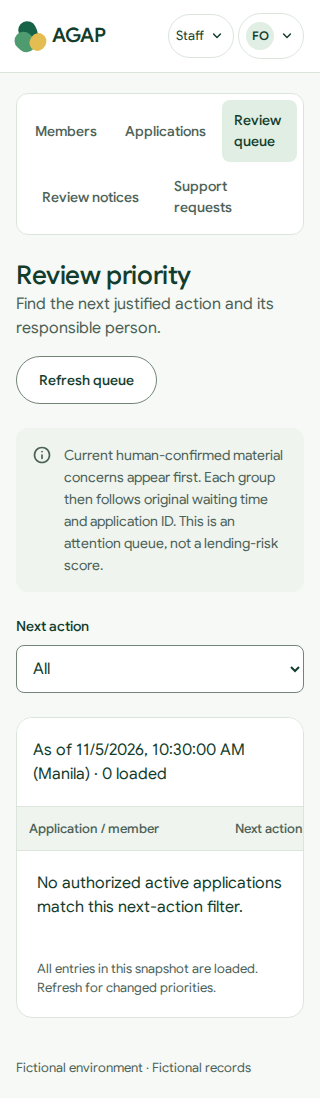
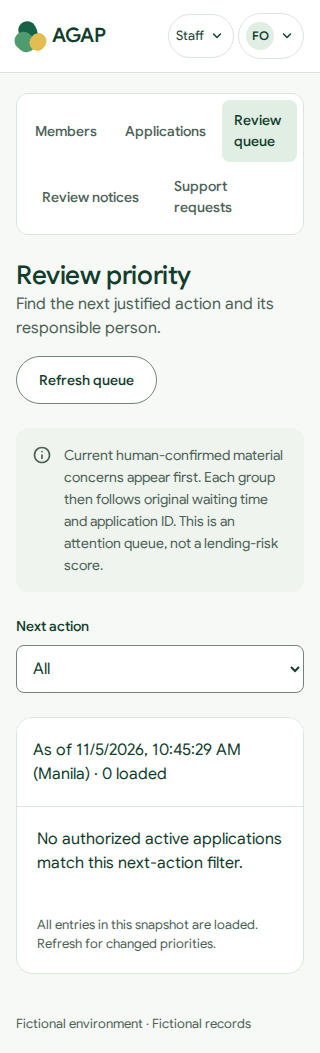
test(pilot): verify reconciliation help and credit-only deployment guards

diff --git a/apps/api/test/pilot-fixture.ts b/apps/api/test/pilot-fixture.ts
@@ -16,6 +16,7 @@ export async function createPilotFixture(){
 async function staff(role:ActorContext['roles'][number]){const actor:ActorContext={...f.officer.actor,userId:randomUUID(),sessionId:randomUUID(),roles:[role],authenticatedAt:new Date()},token=randomBytes(32).toString('base64url');await owner.query('INSERT INTO identity.staff_users(id,organization_id,issuer,subject,display_name,branch_ids,roles) VALUES($1,$2,$3,$1::uuid::text,$4,$5,$6)',[actor.userId,f.org,config.OIDC_ISSUER,`Fictional ${role}`,[f.branch],[role]]);await owner.query("INSERT INTO identity.sessions(id,token_hash,user_id,authenticated_at,methods,expires_at) VALUES($1,$2,$3,now(),ARRAY['mfa'],now()+interval '30 minutes')",[actor.sessionId,tokenHash(token),actor.userId]);return {actor,token};}
 const reviewer=await staff('reviewer'),cashier=await staff('cashier'),authorizer=await staff('financial_authorizer'),member=await memberFixture(f.officer.actor);const application=await new ApplicationsService(uow,new MembersService(uow,config.PRIVACY_NOTICE_VERSION)).create(f.officer.actor,{memberId:member.record.id,purpose:'Fictional connected principal pilot',requestedPrincipalCentavos:100000,requestedTermMonths:1,currency:'PHP'},randomUUID());
  const product=randomUUID(),policy=randomUUID(),cash=randomUUID(),principal=randomUUID(),releaseRule=randomUUID(),repayRule=randomUUID();const offerId=randomUUID();await owner.query("INSERT INTO accounting.accounts(id,organization_id,code,label,currency) VALUES($1,$2,'pilot-cash','Fictional cash','PHP'),($3,$2,'pilot-principal','Fictional receivable','PHP')",[cash,f.org,principal]);await owner.query("INSERT INTO accounting.posting_rules VALUES($1,$2,'disbursement','PHP','2026-01-01','2027-12-31'),($3,$2,'repayment','PHP','2026-01-01','2027-12-31')",[releaseRule,f.org,repayRule]);await owner.query("INSERT INTO accounting.rule_accounts VALUES($1,$2,$3,'debit'),($1,$2,$4,'credit'),($1,$5,$4,'debit'),($1,$5,$3,'credit')",[f.org,releaseRule,principal,cash,repayRule]);await owner.query("INSERT INTO accounting.periods VALUES($1,$2,'2026-11-01','2026-11-30','open')",[randomUUID(),f.org]);
+ for(const [kind,rule] of [['disbursement',releaseRule],['repayment',repayRule]])await owner.query("INSERT INTO accounting.reconciliation_mappings(id,organization_id,posting_rule_version_id,kind,currency,effective_from,effective_through,cash_account_id,principal_account_id,review_reference) VALUES($1,$2,$3,$4,'PHP','2026-01-01','2027-12-31',$5,$6,'Fictional connected principal integration mapping')",[randomUUID(),f.org,rule,kind,cash,principal]);
  await publishPilotConfiguration(owner,{format:'fictional-principal-pilot-v1',id:randomUUID(),organizationId:f.org,branchId:f.branch,label:'Fictional integration test only',sourcePolicy:{allowStatements:true,independentVerificationRequired:false},decisionAuthority:{status:'configured',versionId:randomUUID(),effectiveFrom:'2026-01-01',effectiveThrough:'2027-12-31',requiredApprovers:1,approvalValidity:{kind:'no_expiry'},grants:[{userId:reviewer.actor.userId,outcomes:['approve','decline','return'],approvalLimitCentavos:100000,exceptionPolicyIds:[]}]},financialAuthority:{status:'configured',versionId:randomUUID(),organizationId:f.org,branchId:f.branch,productVersionId:product,effectiveFrom:'2026-01-01',effectiveThrough:'2027-12-31',mfaMaxAgeSeconds:900,grants:[{userId:cashier.actor.userId,actions:['prepare','submit','observe'],methods:['cash'],maximumCentavos:100000},{userId:authorizer.actor.userId,actions:['authorize','submit','observe','reconcile'],methods:['cash'],maximumCentavos:100000}]},principalPolicy:{format:'principal-only-v1',versionId:policy,organizationId:f.org,productVersionId:product,effectiveFrom:'2026-01-01',effectiveThrough:'2027-12-31',interestCentavos:0,feesCentavos:0,graceDays:0,allocation:'scheduled-exact',cashAccountId:cash,principalAccountId:principal,releaseRuleId:releaseRule,repaymentRuleId:repayRule}});
  const credit={id:randomUUID(),label:'Fictional principal only',status:'fictional',approvalReference:null,effectiveFrom:'2026-01-01',effectiveThrough:'2027-12-31',loanProceedsTreatment:'reserved_for_purpose',remainingRuleBasis:'each_reviewed_calendar_month_segment',minimumRemainingCentavos:0,minimumBalanceCentavos:0,offers:[{id:offerId,productVersionId:product,label:'Fictional one month',principalCentavos:100000,netReceivedCentavos:100000,feesPaidSeparatelyCentavos:0,termMonths:1,available:true,payments:[{date:'2026-11-05',amountCentavos:100000}],separateFees:[]}]};await owner.query('INSERT INTO credit.policies(id,organization_id,body) VALUES($1,$2,$3)',[credit.id,f.org,JSON.stringify(credit)]);
  for(const [category,amount]of [['opening',100000],['income',150000],['expense',100000],['obligation',0]]as const){const v=await workflow.view(member.actor,application.id);await workflow.saveFact(member.actor,application.id,{factId:null,label:`Fictional ${category}`,category,value:{availability:'recorded',amountCentavos:amount},sourceId:null,sourceVersion:null,statement:'Explicit fictional member confirmation for all November dates and amounts.',effectiveDate:'2026-11-01',coverageStart:'2026-11-01',coverageEnd:'2026-11-30',cashDates:category==='income'?['2026-11-01','2026-11-05']:['2026-11-01'],period:category==='income'?'semi_monthly':'one_time',basis:category==='income'?'net':'not_applicable',deduction:'no',reason:'Fictional explicit dated coverage'},v.version,randomUUID());}const v=await workflow.view(member.actor,application.id);await workflow.assess(f.officer.actor,application.id,{inputVersion:v.inputVersion,offerVersionIds:[offerId],periodStart:'2026-11-01',periodEnd:'2026-11-30'},v.version,randomUUID());

diff --git a/tests/pilot-lifecycle.spec.ts b/tests/pilot-lifecycle.spec.ts
@@ -1,4 +1,5 @@
 import { test,expect,type BrowserContext,type Page } from '@playwright/test';
+import AxeBuilder from '@axe-core/playwright';
 import { spawn,type ChildProcess } from 'node:child_process';
 import { readFile,mkdir } from 'node:fs/promises';
 
@@ -36,6 +37,7 @@ test('completes the supported lifecycle through real HTTP with separate staff/me
   const [officer,reviewer,cashier,authorizer,member]=contexts;
   await Promise.all([connect(officer,fixture.officer),connect(reviewer,fixture.reviewer),connect(cashier,fixture.cashier),connect(authorizer,fixture.authorizer),connect(member,fixture.member,true)]);
   const [op,rp,cp,ap,mp]=await Promise.all(contexts.map(c=>c.newPage()));const lifecycle=`${origin}/#/staff/applications/${fixture.applicationId}/lifecycle`;
+  await mkdir('docs/screenshots/experiment-f-pilot',{recursive:true});await op.setViewportSize({width:320,height:900});await op.goto(`${origin}/#/staff/review-queue`);await expect(op.getByRole('link',{name:'Fictional Portal Member',exact:true})).toBeVisible();expect(await op.evaluate(()=>document.documentElement.scrollWidth<=window.innerWidth)).toBe(true);expect((await new AxeBuilder({page:op}).analyze()).violations).toEqual([]);await op.screenshot({path:'docs/screenshots/experiment-f-pilot/queue-320.png',fullPage:true});await op.setViewportSize({width:1366,height:768});
   await op.goto(lifecycle);await declaration(op);await rp.goto(lifecycle);await declaration(rp);await op.reload();
   const recommend=op.locator('form').filter({has:op.getByRole('heading',{name:'Officer recommendation',exact:true})});await recommend.getByLabel('Reason and reviewed evidence').fill('Confirmed household dates and the supported principal-only offer.');await recommend.getByRole('button',{name:'Save recommendation'}).click();await expect(op.getByText('The command was saved.',{exact:true})).toBeVisible();
   await rp.reload();const decision=rp.locator('form').filter({has:rp.getByRole('heading',{name:'Prepare a human decision preview'})});await decision.getByLabel('Reason and reviewed evidence').fill('Separate authorized review of the current checked terms.');await decision.getByLabel('Review date / approval validity').fill('2026-12-01');await decision.getByRole('button',{name:'Prepare preview'}).click();await expect(rp.getByRole('heading',{name:'Review the exact preview'})).toBeVisible();await rp.getByLabel('I read this exact explanation and document and take responsibility for this decision.').check();await rp.getByRole('button',{name:'Record reviewed decision'}).click();
@@ -43,6 +45,7 @@ test('completes the supported lifecycle through real HTTP with separate staff/me
   await cp.goto(lifecycle);await cp.getByRole('button',{name:'Create pending loan'}).click();await expect(cp.getByRole('heading',{name:'Prepare simulated release'})).toBeVisible();
   for(const kind of ['disbursement','repayment']as const){if(kind==='repayment')await cp.reload();await movement(cp,kind,'prepare');await ap.goto(lifecycle);await ap.getByRole('button',{name:'Refresh financial status'}).click();await movement(ap,kind,'authorize');await cp.reload();await movement(cp,kind,'settle');await ap.reload();await movement(ap,kind,'post');}
   await expect(ap.getByText('settled',{exact:false}).first()).toBeVisible();await mp.goto(`${origin}/#/member/loans`);await expect(mp.getByRole('heading',{name:'My loans',exact:true})).toBeVisible();const loans=await mp.evaluate(async()=>{const response=await fetch('/api/v1/member/loans');return response.json();});expect(loans.data[0].position.principalCentavos).toBe(0);expect(loans.data[0].receipts).toHaveLength(1);
-  await mkdir('docs/screenshots/experiment-f-pilot',{recursive:true});await ap.screenshot({path:'docs/screenshots/experiment-f-pilot/financial-desktop.png',fullPage:true});await op.goto(`${origin}/#/staff/review-queue`);await op.setViewportSize({width:320,height:900});await op.screenshot({path:'docs/screenshots/experiment-f-pilot/queue-320.png',fullPage:true});
+  await mp.goto(`${origin}/#/member/help`);await mp.getByLabel('Related loan (optional)').selectOption(loans.data[0].id);await mp.getByLabel('What changed, and what help do you need?').fill('Fictional help request about the posted principal account.');await mp.getByRole('button',{name:'Review request',exact:true}).click();await mp.getByLabel('I agree to send this message for staff review.').check();await mp.getByRole('button',{name:'Send request',exact:true}).click();await expect(mp.getByText('Your payment-help request was sent for staff review. Your current payment terms remain unchanged.')).toBeVisible();await mp.reload();await expect(mp.getByText('Fictional help request about the posted principal account.',{exact:true})).toBeVisible();
+  await mkdir('docs/screenshots/experiment-f-pilot',{recursive:true});await ap.screenshot({path:'docs/screenshots/experiment-f-pilot/financial-desktop.png',fullPage:true});
  }finally{await Promise.all(contexts.map(c=>c.close()));}
 });

diff --git a/src/features/reviews/PriorityQueuePage.tsx b/src/features/reviews/PriorityQueuePage.tsx
@@ -30,6 +30,6 @@ function Queue({gateway}:{gateway:PriorityReviewGateway}){
  <div className="field"><label htmlFor="review-route">Next action</label><select id="review-route" value={route} disabled={loading||denied} onChange={e=>setRoute(e.target.value)}>{['all','escalated_review','needs_clarification','awaiting_concern_check','ready_for_approval','preparation','unavailable'].map(value=><option key={value} value={value}>{reviewLabel(value)}</option>)}</select></div>
  {error&&<div ref={errors} tabIndex={-1}><Notice tone="warning" role="alert">{error}</Notice>{!denied&&<Button variant="secondary" disabled={loading} onClick={()=>void load()}>Retry queue</Button>}</div>}
  {loading&&!data&&<p role="status">Loading the authorized review queue…</p>}
- {data&&<section className="panel"><div className="panel-header"><p>As of {reviewTime(data.asOf)} (Manila) · {data.items.length} loaded</p></div><div className="table-scroll" role="region" aria-label="Application review priority" tabIndex={0}><table className={styles.table}><caption className="sr-only">Priority applies across your authorized cohort before paging.</caption><thead><tr><th scope="col">Application / member</th><th scope="col">Next action</th><th scope="col">Waiting since</th><th scope="col">Reason and responsibility</th></tr></thead><tbody>{data.items.map(row=><tr key={row.applicationId}><th scope="row"><Link to={`/staff/applications/${row.applicationId}/review`}>{row.memberName}</Link><p className="small subtle">{row.applicationId}</p></th><td><Badge tone={row.attentionGroup==='substantiated_material'?'warning':'neutral'}>{reviewLabel(row.readiness.route)}</Badge></td><td>{reviewTime(row.queueEnteredAt)}<p className="small subtle">{row.queueEntryBasis==='first_submission'?'First submission':'Recorded received date'}</p></td><td className={styles.reason}><p>{row.positionReason}</p><p>{row.readiness.nextAction}</p><p className="small subtle">Preparing officer: {row.assignedOfficerId??'Not assigned'}</p><ul>{row.readiness.blockers.map((b,index)=><li key={`${b.code}:${index}`}>{b.message}</li>)}</ul></td></tr>)}</tbody></table></div>{!data.items.length&&<p className="panel-body">No authorized active applications match this next-action filter.</p>}{data.nextCursor?<div className="panel-body"><Button variant="secondary" disabled={loading} onClick={()=>void load(data.nextCursor!)}>{loading?'Loading older entries…':'Load more applications'}</Button></div>:<p className="panel-body small subtle">All entries in this snapshot are loaded. Refresh for changed priorities.</p>}</section>}
+ {data&&<section className="panel"><div className="panel-header"><p>As of {reviewTime(data.asOf)} (Manila) · {data.items.length} loaded</p></div><div className={`table-scroll ${styles.queueScroll}`} role="region" aria-label="Application review priority" tabIndex={0}><table role="table" className={styles.table}><caption className="sr-only">Priority applies across your authorized cohort before paging.</caption><thead><tr><th scope="col">Application / member</th><th scope="col">Next action</th><th scope="col">Waiting since</th><th scope="col">Reason and responsibility</th></tr></thead><tbody>{data.items.map(row=><tr key={row.applicationId}><th scope="row"><Link to={`/staff/applications/${row.applicationId}/review`}>{row.memberName}</Link><p className="small subtle">{row.applicationId}</p></th><td data-label="Next action"><Badge tone={row.attentionGroup==='substantiated_material'?'warning':'neutral'}>{reviewLabel(row.readiness.route)}</Badge></td><td data-label="Waiting since">{reviewTime(row.queueEnteredAt)}<p className="small subtle">{row.queueEntryBasis==='first_submission'?'First submission':'Recorded received date'}</p></td><td data-label="Reason and responsibility" className={styles.reason}><p>{row.positionReason}</p><p>{row.readiness.nextAction}</p><p className="small subtle">Preparing officer: {row.assignedOfficerId??'Not assigned'}</p><ul>{row.readiness.blockers.map((b,index)=><li key={`${b.code}:${index}`}>{b.message}</li>)}</ul></td></tr>)}</tbody></table></div>{!data.items.length&&<p className="panel-body">No authorized active applications match this next-action filter.</p>}{data.nextCursor?<div className="panel-body"><Button variant="secondary" disabled={loading} onClick={()=>void load(data.nextCursor!)}>{loading?'Loading older entries…':'Load more applications'}</Button></div>:<p className="panel-body small subtle">All entries in this snapshot are loaded. Refresh for changed priorities.</p>}</section>}
  </div>;
 }

diff --git a/apps/api/test/pilot-integration.test.ts b/apps/api/test/pilot-integration.test.ts
@@ -50,6 +50,14 @@ it('registers the actual review/decision/member/money services and validates pub
  }
  const loans=await member.listMemberLoans();expect(loans.state).toBe('available');if(loans.state==='available')expect(loans.data[0].receipts).toHaveLength(1);
  expect(Number((await owner.query('SELECT count(*) FROM accounting.journals WHERE organization_id=$1',[f.f.org])).rows[0].count)).toBe(2);
+ await owner.query('UPDATE identity.staff_users SET branch_ids=ARRAY[$1::uuid,$2::uuid] WHERE id=$3',[f.f.branch,f.f.secondBranch,f.f.auditor.actor.userId]);
+ const audit=await client(f.f.auditor).createReconciliation({fromDate:'2026-11-05',throughDate:'2026-11-05'},options(f.f.auditor));expect(audit.report.status).toBe('matched');expect(audit.report.events).toHaveLength(2);
+ const helpKey=options(f.member),body={loanId:loan.id,message:'Fictional request to discuss the settled principal account.',contactPreference:'portal' as const,sharingConfirmed:true as const,noticeVersion:config.PRIVACY_NOTICE_VERSION};
+ const help=await member.createMemberSupport(body,helpKey);expect(await member.createMemberSupport(body,helpKey)).toEqual(help);
+ expect((await owner.query('SELECT position FROM monitoring.disclosures WHERE request_id=$1',[help.id])).rows[0].position).toMatchObject({loanId:loan.id,principalCentavos:0});
+ const assigned=await client(f.f.administrator).assignSupportRequest(help.id,{officerId:f.f.officer.actor.userId,reason:'Fictional linked account support assignment.'},options(f.f.administrator,1));
+ await officer.respondSupportRequest(help.id,{response:'We can discuss your recorded principal account.',internalNote:'Private fictional staff context.',followUpDate:null},options(f.f.officer,assigned.version));
+ const history=await member.listMemberSupport();expect(history.state).toBe('available');expect(JSON.stringify(history)).toContain(help.id);expect(JSON.stringify(history)).not.toContain('Private fictional staff context.');
 });
 it('keeps the static model-off path editable and denies an unreviewed final decision',async()=>{
  const id=f.application.id,officer=client(f.f.officer),workflow=await officer.getStaffWorkflow(id),source=workflow.sources[0];

diff --git a/src/features/reviews/reviews.module.css b/src/features/reviews/reviews.module.css
@@ -8,3 +8,14 @@
 .reason{max-width:38rem;overflow-wrap:anywhere}
 .form{max-width:48rem}
 @media(max-width:40rem){.metadata{grid-template-columns:minmax(0,1fr)}.metadata dd{margin-bottom:var(--space-2)}}
+
+@media(max-width:40rem){
+ .queueScroll{overflow:visible}
+ .table{min-width:0;width:100%}
+ .table thead{position:absolute;width:1px;height:1px;overflow:hidden;clip-path:inset(50%);white-space:nowrap}
+ .table tbody,.table tr,.table th,.table td{display:block;width:100%}
+ .table tr{padding:var(--space-4);border-bottom:1px solid var(--line)}
+ .table th,.table td{padding:var(--space-2) 0;border:0;overflow-wrap:anywhere;white-space:normal}
+ .table td::before{content:attr(data-label);display:block;color:var(--muted);font-size:.875rem;font-weight:500;margin-bottom:var(--space-2)}
+ .reason{max-width:none}
+}

diff --git a/infra/azure/pilot/pilot.py b/infra/azure/pilot/pilot.py
@@ -61,8 +61,8 @@ def write_private(path, value):
 def validate_credit(evidence, subscription_id, at):
     if evidence.get('subscriptionId') != subscription_id:
         raise ValueError('Credit evidence belongs to another subscription.')
-    if evidence.get('currency') != 'USD' or evidence.get('source') != 'Azure Sponsorships Portal':
-        raise ValueError('Current USD credit evidence from Azure Sponsorships Portal is required.')
+    if evidence.get('currency') != 'USD' or evidence.get('source') not in ['Azure Education Hub', 'Azure Sponsorships Portal']:
+        raise ValueError('Current USD credit evidence from Azure Education Hub or a working Azure Sponsorships balance is required.')
     observed = instant(evidence['observedAt'])
     if not dt.timedelta(0) <= at - observed <= dt.timedelta(hours=24):
         raise ValueError('Credit evidence must be observed within the last 24 hours.')
@@ -83,6 +83,17 @@ def cost_envelope(hourly, hours, credit):
     if projected > min(MAX_CREDIT_USD, credit):
         raise ValueError('The complete pilot forecast exceeds available approved credit.')
     return projected
+
+
+def available_quota(quota):
+    # Azure CLI serializes these ARM integers as strings on some versions.
+    values = []
+    for name in ['limit', 'currentValue']:
+        value = quota.get(name)
+        if isinstance(value, bool) or not str(value).isdigit():
+            raise ValueError('Regional quota values are unavailable.')
+        values.append(int(value))
+    return values[0] - values[1]
 
 
 def retail_price():
@@ -119,7 +130,7 @@ def preflight(credit_path=None):
     family = selected[0]['family'].lower()
     for quota_name in [family, 'cores']:
         quota = next((q for q in usage if q['name']['value'].lower() == quota_name), None)
-        if not quota or quota['limit'] - quota['currentValue'] < 24:
+        if not quota or available_quota(quota) < 24:
             raise ValueError('Insufficient regional/A100-family quota; no paid or different-SKU fallback is permitted.')
     if not credit_path:
         raise ValueError('Current credit/expiry evidence is required before provisioning; see README.')

diff --git a/infra/azure/pilot/test_pilot.py b/infra/azure/pilot/test_pilot.py
@@ -15,12 +15,13 @@ class CreditGuards(unittest.TestCase):
     def setUp(self):
         self.at = dt.datetime(2026, 11, 5, tzinfo=dt.timezone.utc)
         self.evidence = {'subscriptionId': 'fictional-subscription', 'currency': 'USD',
-                         'source': 'Azure Sponsorships Portal', 'remainingUsd': 40,
+                         'source': 'Azure Education Hub', 'remainingUsd': 40,
                          'observedAt': self.at.isoformat(), 'expiresAt': (self.at + dt.timedelta(days=2)).isoformat(),
                          'operatorReference': 'Fictional guard test; no live balance asserted'}
 
     def test_credit_is_bounded_and_all_costs_must_fit(self):
         self.assertEqual(pilot.validate_credit(self.evidence, 'fictional-subscription', self.at), 30)
+        self.assertEqual(pilot.validate_credit(dict(self.evidence, source='Azure Sponsorships Portal'), 'fictional-subscription', self.at), 30)
         self.assertAlmostEqual(pilot.cost_envelope(5.326, 4, 30), 29.304)
         with self.assertRaises(ValueError):
             pilot.cost_envelope(5.326, 4, 20)
@@ -53,6 +54,13 @@ class CreditGuards(unittest.TestCase):
         schedule = next(r for r in template['resources'] if r['type'].endswith('/schedules'))
         self.assertEqual(schedule['properties']['timeZoneId'], 'UTC')
         self.assertEqual(schedule['properties']['status'], 'Enabled')
+
+    def test_quota_supports_arm_integer_strings_and_fails_closed(self):
+        self.assertEqual(pilot.available_quota({'limit': '24', 'currentValue': '0'}), 24)
+        self.assertEqual(pilot.available_quota({'limit': 6, 'currentValue': 0}), 6)
+        for invalid in [None, True, 'unknown', -1, 24.5]:
+            with self.subTest(invalid=invalid), self.assertRaises(ValueError):
+                pilot.available_quota({'limit': invalid, 'currentValue': 0})
 
     def test_secret_files_are_private(self):
         with tempfile.TemporaryDirectory() as directory:

diff --git a/docs/AGAP_Experiment_F_Pilot_Delivery.md b/docs/AGAP_Experiment_F_Pilot_Delivery.md
@@ -1,8 +1,8 @@
 # Experiment F and fictional lifecycle pilot — delivery evidence
 
-5 November 2026, Asia/Manila. **Implementation candidate; verification in progress.**
+5 November 2026, Asia/Manila. **Checked application candidate; actual GPU/Azure pilot blocked.**
 This records the user-authorized plan on `codex/model-lifecycle-pilot`, based on
-main `6a8eccb`. The [compatibility proposal](AGAP_Experiment_F_Pilot_Contract_Proposal.md)
+main `6a8eccb`, synchronized with published `59351ce` before final checks. The [compatibility proposal](AGAP_Experiment_F_Pilot_Contract_Proposal.md)
 preceded shared edits. Existing task owners, unrelated local work and earlier
 snapshots/manifests are preserved. Independent/receiving-owner acceptance is not
 inferred from implementation or repository publication.
@@ -12,7 +12,7 @@ inferred from implementation or repository publication.
 - Experiment F is a qualitative source-review LoRA, not a financial extraction
   checkpoint. Its six-field payload cannot create amounts, dates, verified facts
   or lending decisions. The original baseline remains the extraction capability.
-- The actual Downloads import verified all 14 integration-package commitments
+- The actual Downloads import into the main AGAP folder verified all 14 integration-package commitments
   and assembled 32 verified artifact files. The 4,548,221,488-byte base is
   hardlinked rather than copied. F SHA256:
[1 lines of base64/hex data omitted]
@@ -63,17 +63,31 @@ posting, allocations, receipts and history remain one atomic transaction.
   simulated release, repayment, safe member receipts and two actual GL journals.
   Test session fixtures stand in for identity-provider interaction; protocol
   model doubles are not live model execution or independent model evaluation.
-- Frontend/API type checks pass at the recorded checkpoint. Final full checks,
-  browser journey, screenshots, tooling update and publication are recorded below
-  only after they actually finish.
+- The connected HTTP journey additionally produces a matched independent
+  principal reconciliation report for both events, records payment help against
+  the resulting posted loan and publishes only the staff response to the member.
+  The browser journey includes consented payment help and reload persistence.
+- Impeccable static detection reported no findings on the new pilot/review UI.
+  Desktop and 320px captures were inspected. The 21st catalog required login, so
+  no new component/dependency or external design publication was introduced.
 
 ## External gates and operational boundaries
 
-No Azure resource has been provisioned. The cached student subscription token
-expired (`AADSTS700082`); the device login was rejected under tenant security
-defaults (`AADSTS530035`). A standard browser sign-in was restarted without the
-incorrect forced tenant. Current credits, expiry, spending limit, A100 quota and
-regional eligibility remain unverified until authentication succeeds.
+No VM, resource group, disk or paid service has been provisioned. After the
+expired-token/device-security/forced-tenant failures, ordinary organization
+sign-in succeeded with the user's new Azure for Students account. The former
+UMindanao account is excluded from this pilot at the user's instruction because
+its credits are exhausted. The selected new subscription is Enabled, has
+`quotaId: AzureForStudents_2018-01-01` and `spendingLimit: On`.
+
+Compute provider registration was initiated without provisioning resources.
+Actual Australia East quota returned **0 used / 0 limit** for
+`StandardNCADSA100v4Family` and **0 used / 6 limit** for total regional cores.
+The selected `Standard_NC24ads_A100_v4` needs 24 vCPUs. The exact SKU also reports
+`NotAvailableForSubscription` for Australia East. These are concrete quota/offer
+blockers regardless of remaining credit. Live observations/account identifiers
+remain in ignored private state. The user reports a USD100 GitHub Education/Azure for Students benefit and a Sponsorships page with no active sponsorship. That does not negate the student offer; actual remaining balance/expiry in Education Hub remain unverified. The deployment guard accepts an actual Education Hub observation and does not require sponsorship enrollment.
+No offer upgrade, quota request or paid/different-SKU fallback was submitted.
 
 The [private pilot package](../infra/azure/pilot/README.md) gates provisioning on
 fresh ARM access, actual credit evidence, exact SKU/quota and a checksum-bound
@@ -85,4 +99,27 @@ exists, this remains an incomplete pilot rather than completed live AGAP.
 
 ## Final verification/publication record
 
-Pending. Task status remains in [Assignment.md](../Assignment.md).
+The merged candidate passed `npm run check` (232 app/domain, 645 platform/backend,
+91 evaluation tests), including generated contract/schema/client checks and
+frontend/API builds. The 19 Python importer/service tests and five Azure guard/
+template tests passed. Final repeated browser publication check is recorded after
+completion below. Backend test environment explicitly selects the local fictional
+`agap_test` database; its absence in the first run caused six existing test URL
+errors, resolved by supplying that environment rather than weakening assertions.
+
+The API version advance initially exposed a historical EVAL-01 corpus identity
+coupling. That extraction corpus is now explicitly pinned to 0.3.0; its exact
+supplied reviewer handoff, source text, labels and hashes remain unchanged and
+verify. The larger fictional browser demo merged from current main is preserved.
+
+`graphify update .` completed in the task worktree. It reported 43 SQL files
+unparsed because `tree_sitter_sql` is absent, and a partial parse of
+`packages/contracts/src/index.ts`; no completeness of those graph sections is
+claimed. Semantic graph labels also need refresh. No extra graph dependency or
+external semantic service was enabled.
+
+Screenshots: [financial desktop](screenshots/experiment-f-pilot/financial-desktop.png),
+[review queue at 320px](screenshots/experiment-f-pilot/queue-320.png).
+These are local real API/database journeys with test sessions, not live GPU or
+normal identity-provider acceptance. Task status remains in
+[Assignment.md](../Assignment.md).

diff --git a/infra/azure/pilot/README.md b/infra/azure/pilot/README.md
@@ -11,15 +11,19 @@ never receive public inbound rules. The VM has an operator-/32 SSH rule only.
 
 Renew Azure sign-in with the account owning the student subscription. Device
 authentication can be denied by tenant security defaults; use ordinary browser
-sign-in rather than weakening those settings. Check remaining credit/expiry in
-the [Azure Sponsorships Portal](https://www.microsoftazuresponsorships.com/).
+sign-in rather than weakening those settings. Check actual remaining credit and renewal/expiry in the
+[Azure Education Hub](https://portal.azure.com/#view/Microsoft_Azure_Education/EducationMenuBlade/~/overview).
+Microsoft documents this [student usage view](https://learn.microsoft.com/en-us/azure/education-hub/navigate-costs).
+The separate Sponsorships portal is optional if it actually displays this
+account's balance; a missing sponsorship does not disprove the student benefit.
+The original USD100 grant is not evidence of the current remaining balance.
 Create a private `.state/credit.json` with actual observed values:
 
 ```json
 {
   "subscriptionId": "actual-selected-subscription-id",
   "currency": "USD",
-  "source": "Azure Sponsorships Portal",
+  "source": "Azure Education Hub",
   "remainingUsd": 0,
   "observedAt": "actual-observation-with-offset",
   "expiresAt": "actual-credit-expiry-with-offset",
